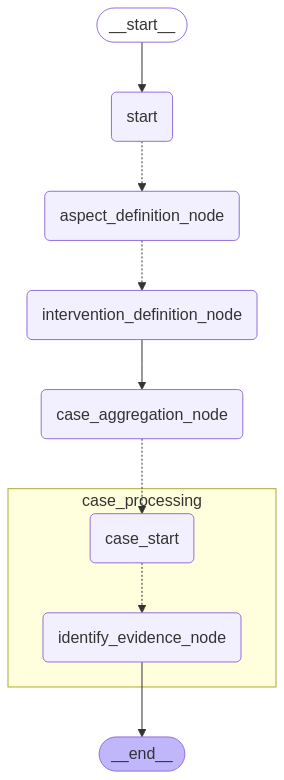
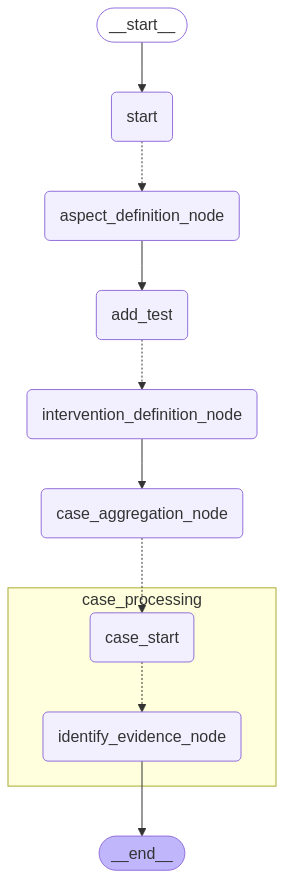
added aggregation node to stop send duplication

diff --git a/src/coding/coding_exec.py b/src/coding/coding_exec.py
@@ -535,9 +535,16 @@ case_processing_subgraph = case_processing_graph.compile()
 # --- Create the Main Graph ---
 coding_graph = StateGraph(CodingState)
 
+def add_test(state: CodingState) -> CodingState:
+    """
+    Test node that returns the state unchanged.
+    """
+    return state
+
 # --- Add Nodes ---
 coding_graph.add_node("start", start_llm)
 coding_graph.add_node("aspect_definition_node", aspect_definition_node)
+coding_graph.add_node("add_test", add_test)
 coding_graph.add_node("intervention_definition_node", intervention_definition_node)
 coding_graph.add_node("case_aggregation_node", case_aggregation_node)
 coding_graph.add_node("case_processing", case_processing_subgraph)
@@ -594,7 +601,8 @@ def continue_to_case_processing(state: CodingState) -> List[Send]:
 # --- Add Edges ---
 coding_graph.add_edge(START, "start")
 coding_graph.add_conditional_edges("start", continue_to_aspect_definition, ['aspect_definition_node'])
-coding_graph.add_conditional_edges("aspect_definition_node", continue_to_intervention_definition, ['intervention_definition_node'])
+coding_graph.add_edge("aspect_definition_node", "add_test")
+coding_graph.add_conditional_edges("add_test", continue_to_intervention_definition, ['intervention_definition_node'])
 coding_graph.add_edge("intervention_definition_node", "case_aggregation_node")
 coding_graph.add_conditional_edges("case_aggregation_node", continue_to_case_processing, ['case_processing'])
 coding_graph.add_edge("case_processing", END)
